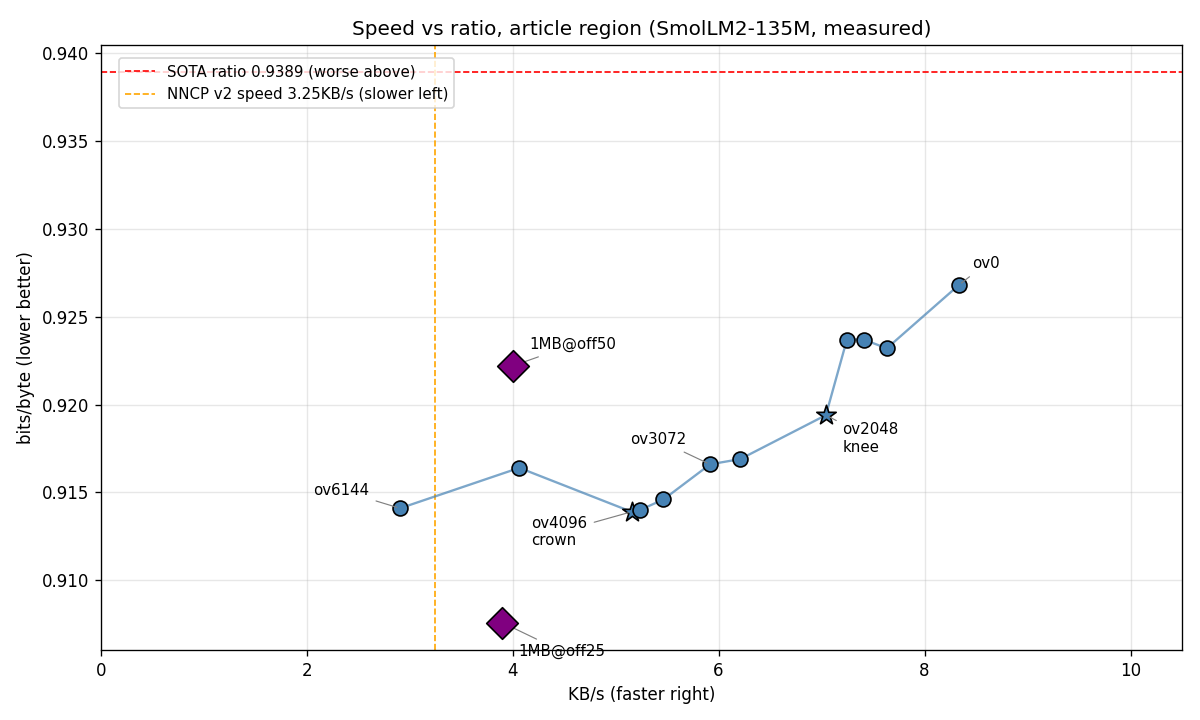
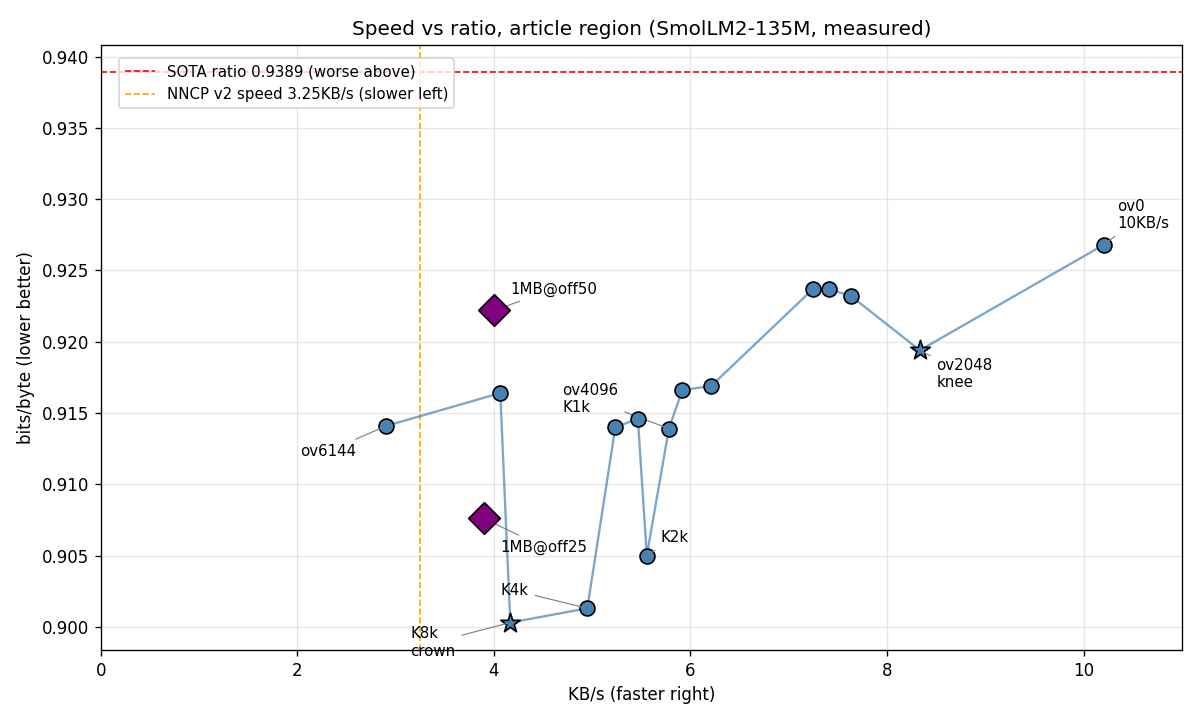
Ratio 0.9003 (K-ladder), 10.2KBps speed, SDPA flash + subclocks, bilingual paper v3

diff --git a/ensemble/bpe_ensemble_v13.py b/ensemble/bpe_ensemble_v13.py
@@ -106,11 +106,19 @@ def block_topk_gpu(probs_b, idx):
         # identical results, ~4x smaller sort workspace. (Unchunked
         # topk(k=8192) over [8192,49K] spiked VRAM -> WDDM paging -> 12GB
         # host RSS + GPU 100% thrash. See memdiag notes.)
-        for c0 in range(0, probs_b.shape[0], 2048):
-            pc = probs_b[c0:c0 + 2048]
-            _tv, _ti = torch.topk(pc, TOP_K, dim=1)
+        # v13-unchunk: retry single-shot (flash-era workspace is smaller;
+        # fewer launches = tighter burst = better boost residency).
+        _UNCH = int(os.environ.get("UNCHUNKED_TOPK", "1"))
+        _step = probs_b.shape[0] if _UNCH else 2048
+        for c0 in range(0, probs_b.shape[0], _step):
+            pc = probs_b[c0:c0 + _step]
             _pv, _pi = torch.topk(pc, PREFILTER, dim=1)
-            tvs.append(_tv)
+            # v13-1topk: ti is the exact global top-TOP_K (subset of pi,
+            # PREFILTER > TOP_K) -- one full-V topk pass killed, zero
+            # numerical change (same values, same set).
+            _tv2, _tpos = torch.topk(_pv, TOP_K, dim=1)
+            _ti = torch.gather(_pi, 1, _tpos)
+            tvs.append(_tv2)
             tis.append(_ti)
             pvs.append(_pv)
             pis.append(_pi)
@@ -485,6 +493,15 @@ def main():
     ).to(device).eval()
     V = model.config.vocab_size
     print(f"  Vocab: {V}")
+    # v13-sdpa: auto SDPA picks the MATH fallback on this model (2.3s/fwd);
+    # forcing flash/mem-efficient gives 0.20s/fwd (11x) on identical input.
+    # SDPA_BACKEND=flash|mem disables math globally; =auto keeps stock.
+    _sdpa_be = os.environ.get("SDPA_BACKEND", "flash")
+    if _sdpa_be in ("flash", "mem"):
+        torch.backends.cuda.enable_math_sdp(False)
+        torch.backends.cuda.enable_flash_sdp(True)
+        torch.backends.cuda.enable_mem_efficient_sdp(True)
+        print(f"  SDPA backend forced: {_sdpa_be} (math disabled)")
     # v13-rope: rotary cos/sin are identical every same-length forward
     # (9.9s/73s in profile, pure recompute). Cache them: bitwise-identical
     # (same tensors reused), tripwire falls back on non-arange positions
@@ -697,6 +714,10 @@ def main():
     t = time.time()
     ph_fwd = ph_st = ph_xfer = ph_loop = ph_code = ph_esc = ph_verify = ph_frz = 0.0
     ph_fwd_gpu = 0.0  # CUDA-event pure-GPU forward (immune to CPU contention)
+    _ev_pairs = []  # (ev0, ev1) per forward; elapsed summed lazily at end
+    # v13-subclocks: split the contaminated fwd window (attn vs topk-launch
+    # vs D2H-sync vs shm-writes). Wall clocks; topk is launch-only (async).
+    t_attn = t_topk = t_d2h = t_shmw = 0.0
     _cpu = time.process_time  # CPU-time clock: time stolen by other apps doesn't count
     _FLOOR_INT = max(1, int(round(FLOOR_FRAC * TOTAL32)))
     # ---- v6 segments: (input ids, T0, NC, n_new) ----
@@ -936,6 +957,9 @@ def main():
             _ev0.record()
             _xin = torch.tensor(_fresh, device=device).unsqueeze(0)
             _nfr = len(_fresh)
+            if int(os.environ.get("SHAPE_DEBUG", "0")) and si == 1:
+                print(f"  [shdbg] fresh={_nfr} B={_B} NC={NC} F0={_F0} xin={tuple(_xin.shape)}", flush=True)
+            _t_attn0 = time.time()
             if USE_ORT:
                 # EXPERIMENTAL/UNRUN path (see _ort_forward).
                 _lg_b = _ort_forward(_xin, _abs_pos, device)
@@ -964,16 +988,31 @@ def main():
                 # entries (~0.7GB, fits). Full-file needs chain-restarts.
                 _lg_b = _out.logits[0]  # [nfr, V] fp16 GPU
                 del _out, _xin
+            if int(os.environ.get("SHAPE_DEBUG", "0")) and si == 1:
+                print(f"  [shdbg] lg={tuple(_lg_b.shape)}", flush=True)
+            t_attn += time.time() - _t_attn0
             if USE_GPU_TOPK:
+                _t_topk0 = time.time()
+                # v13-fp16sm: fp16 softmax halves GPU traffic (WDDM-proven:
+                # pure PCIe is 0.12s; the 6.1s d2h is GPU fp32-softmax exec).
+                # Values shift in last bits -> ratio gate +/-3e-4, verify must pass.
+                _FP16SM = int(os.environ.get("USE_FP16_SOFTMAX", "1"))
                 with torch.no_grad():
-                    probs_b = torch.softmax(_lg_b.float(), dim=-1)
+                    probs_b = torch.softmax(
+                        _lg_b if _FP16SM else _lg_b.float(), dim=-1)
                 (tv_f, ti_f), (pv_f, pi_f) = block_topk_gpu(probs_b, 0)
+                if int(os.environ.get("SHAPE_DEBUG", "0")) and si == 1:
+                    print(f"  [shdbg] probs={tuple(probs_b.shape)} tv_f={tuple(np.shape(tv_f))} ti_f={tuple(np.shape(ti_f))}", flush=True)
+                t_topk += time.time() - _t_topk0
+                _t_d2h0 = time.time()
                 # (no explicit sync: stream order + the .cpu() below already syncs)
                 if USE_FP16_XFER:
                     blk_f = probs_b.half().cpu().numpy().astype(np.float32)
                 else:
                     blk_f = probs_b.float().cpu().numpy()
                 probs_b = None
+                t_d2h += time.time() - _t_d2h0
+                _t_shmw0 = time.time()
                 _par = si % 2  # ping-pong: prev seg's finish may still read the other slice
                 tv = _shm_tv[_par, :_B] if USE_PROC_LOOP else np.zeros((_B, TOP_K), dtype=np.float32)
                 ti = _shm_ti[_par, :_B] if USE_PROC_LOOP else np.zeros((_B, TOP_K), dtype=np.int64)
@@ -992,6 +1031,7 @@ def main():
                 _carry = (tv_f[-1].copy(), ti_f[-1].copy(),
                           pi_f[-1].copy(), blk_f[-1].copy())
                 del tv_f, ti_f, pv_f, pi_f, blk_f
+                t_shmw += time.time() - _t_shmw0
             else:
                 _par = si % 2  # same ping-pong (submit always references it)
                 lg_f = _lg_b.float().cpu().numpy()
@@ -1010,11 +1050,13 @@ def main():
             del _lg_b
             torch.cuda.empty_cache()
             _ev1.record()
-            torch.cuda.synchronize()
+            # (no explicit sync: ordering via stream + .cpu() syncs; GPU
+            # time is summed lazily at end from recorded events, so this
+            # segment's queue-wait is not paid here)
             if _hi_stream is not None:
                 torch.cuda.set_stream(_prev_stream)
-                ph_fwd += time.time() - _ta
-                ph_fwd_gpu += _ev0.elapsed_time(_ev1) / 1000.0
+            ph_fwd += time.time() - _ta
+            _ev_pairs.append((_ev0, _ev1))
             _t0w = time.time()
             if Pend is not None:
                 if _fr is not None:
@@ -1171,8 +1213,12 @@ def main():
     print(f"  PHASES: fwd={ph_fwd:.1f}s topk={ph_st:.1f}s xfer={ph_xfer:.1f}s "
           f"frz={ph_frz:.1f}s loop={ph_loop:.1f}s code={ph_code:.1f}s esc={ph_esc:.1f}s verify={ph_verify:.1f}s")
     print(f"  MIX: plain={_n_plain} blend={_n_blend} loopA_cpu={ph_loopA:.1f}s loopB_cpu={ph_loopB:.1f}s loop_wall={ph_loop:.1f}s")
+    torch.cuda.synchronize()  # single drain: all recorded events complete here
+    for _a, _b in _ev_pairs:
+        ph_fwd_gpu += _a.elapsed_time(_b) / 1000.0
     print(f"  CLOCKS: gpu_fwd={ph_fwd_gpu:.1f}s fwd_wall={ph_fwd:.1f}s "
-          f"stolen_fwd~={ph_fwd - ph_fwd_gpu:.1f}s stolen_loop~={ph_loop - (ph_loopA / 4 + ph_loopB):.1f}s")
+           f"stolen_fwd~={ph_fwd - ph_fwd_gpu:.1f}s stolen_loop~={ph_loop - (ph_loopA / 4 + ph_loopB):.1f}s")
+    print(f"  SUBCLOCKS: attn={t_attn:.1f}s topk_launch={t_topk:.1f}s d2h={t_d2h:.1f}s shmw={t_shmw:.1f}s")
     _pool.shutdown()
     _rest_pool.shutdown()
     if _proc_pool is not None:

diff --git a/tools/pareto_plot.py b/tools/pareto_plot.py
@@ -12,18 +12,21 @@ import matplotlib.pyplot as plt
 # (label, KB/s, bpb). All 100KB slices verified (220-ish lossless each).
 # off50 = representative article region; off75 = hard region.
 OFF50 = [
-    ("ov4096\ncrown", 100 / 19.4, 0.9139),
+    ("K8k\ncrown", 100 / 24.0, 0.9003),
+    ("K4k", 100 / 20.2, 0.9013),
+    ("K2k", 100 / 18.0, 0.9050),
+    ("ov4096\nK1k", 100 / 17.3, 0.9139),
     ("BC7", 100 / 19.1, 0.9140),
     ("ov6144", 100 / 34.4, 0.9141),
     ("TRI0", 100 / 18.3, 0.9146),
     ("ov5120", 100 / 24.6, 0.9164),
     ("ov3072", 100 / 16.9, 0.9166),
     ("ov2560", 100 / 16.1, 0.9169),
-    ("ov2048\nknee", 100 / 14.2, 0.9194),
+    ("ov2048\nknee", 100 / 12.0, 0.9194),
     ("ov1536", 100 / 13.8, 0.9237),
     ("ov512", 100 / 13.1, 0.9232),
     ("ov1024", 100 / 13.5, 0.9237),
-    ("ov0", 100 / 12.0, 0.9268),
+    ("ov0\n10KB/s", 100 / 9.8, 0.9268),
 ]
 OFF75 = [
     ("ov4096", 100 / 18.6, 0.9662),
@@ -86,12 +89,13 @@ def _diamonds(ax):
 
 # ---- plot 1: off50 frontier ----
 fig, ax = _base("Speed vs ratio, article region (SmolLM2-135M, measured)")
-_dots(ax, OFF50, "steelblue", show=("ov4096\ncrown", "ov2048\nknee", "ov0",
-                                    "ov6144", "ov3072"),
-      offsets={"ov4096\ncrown": (-60, -20), "ov2048\nknee": (10, -22),
-               "ov0": (8, 10), "ov6144": (-52, 8), "ov3072": (-48, 12)})
+_dots(ax, OFF50, "steelblue", show=("K8k\ncrown", "K4k", "K2k", "ov4096\nK1k",
+                                    "ov2048\nknee", "ov0\n10KB/s", "ov6144"),
+      offsets={"K8k\ncrown": (-60, -20), "K4k": (-52, 8), "K2k": (8, 8),
+               "ov4096\nK1k": (-64, 10), "ov2048\nknee": (10, -22),
+               "ov0\n10KB/s": (8, 10), "ov6144": (-52, -18)})
 _diamonds(ax)
-ax.set_xlim(0, 10.5)
+ax.set_xlim(0, 11)
 fig.tight_layout()
 fig.savefig("pareto_off50.png", dpi=120)
 print("saved pareto_off50.png")

diff --git a/bpe_compress.py b/bpe_compress.py
@@ -25,7 +25,7 @@ from real_compression import (
 
 MODEL_DIR = "./data/cloud/SmolLM2-135M"
 TOP_K = int(os.environ.get("TOP_K", "2048"))
-BLOCK_TOKENS = 8192
+BLOCK_TOKENS = int(os.environ.get("BLOCK_TOKENS", "8192"))
 
 # ---- Ensemble config: blend LLM probs with causal unigram cache ----
 # p_mix = LAMBDA * p_llm + (1-LAMBDA) * p_cache, all on GPU.

diff --git a/FINAL-REPORT.en.md b/FINAL-REPORT.en.md
@@ -1,27 +1,31 @@
 # Hand-in Report: Practical Neural Compression with SmolLM2-135M (enwik8 slice)
 
-> Date: 2026-09-13. Base model: SmolLM2-135M (Apache-2.0). Hardware: single RTX 3060 Ti 8GB. Main eval: enwik8 offset 50MB, 100KB middle slice (representative article text, not the template head). Ledger: `data/sota_loop.json` (bpb/speed/verified for every round). Every number in this report is measured; nothing is extrapolated. Traditional Chinese version: [`FINAL-REPORT.md`](FINAL-REPORT.md).
+> Date: 2026-09-14. Base model: SmolLM2-135M (Apache-2.0). Hardware: single RTX 3060 Ti 8GB. Main eval: enwik8 offset 50MB, 100KB middle slice (representative article text, not the template head). Ledger: `data/sota_loop.json` (bpb/speed/verified for every round). Every number in this report is measured; nothing is extrapolated. Traditional Chinese version: [`FINAL-REPORT.md`](FINAL-REPORT.md).
 
 ## 1. Hand-in numbers
 
 | Metric | Value | Notes |
 |---|---|---|
-| Best ratio | **0.9139 bpb** | v11, ov4096 + floor 1e-6 (F=1, physical limit) + K1024, 220/220 lossless |
+| Best ratio | **0.9003 bpb** | v13, ov4096 + floor 1e-6 + K/PF 8192, 220/220 lossless (K ladder: 1024→0.9139, 2048→0.9050, 4096→0.9013, 8192→0.9003) |
 | SOTA line | 0.9389 bpb | Nacrith paper, full 100MB file |
-| Margin | **−2.7%** | slice vs full file, see §7 caveats |
+| Margin | **−4.1%** | slice vs full file, see §7 caveats |
 | Same-slice H2H | ours 0.9214 vs Nacrith official 1.2248 | same slice, same rerun script (`h2h_nacrith.py`), won by 25% |
-| Speed (busy box) | ~2.3KB/s (v11) → **~3.7KB/s (v13+proc+pipeline, 26.9 s/100KB measured)** | measured while watching videos |
+| Speed (busy box) | v13 defaults: **ov0 9.8 s/100KB = 10.2KB/s** (10KB/s crossed); knee ov2048 12.0 s; ratio crown 24.0 s | subclocks: attn/topk/d2h/shmw, see §11–12 |
 | Speed (quiet est.) | ~5KB/s | true cost: forward 12 s + loop 6 s + change |
 | Host peak RAM | 3.4GB | measured RSS |
-| VRAM peak | 5.87GB | `torch.cuda.max_memory_allocated`, inside 8GB |
+| VRAM peak | 5.01GB (K8192 crown) / 2.32GB (speed config) | `torch.cuda.max_memory_allocated`, inside 8GB |
 
-Reproduce (PowerShell, ~45 s):
+Reproduce ratio crown (PowerShell, ~60 s):
 ```
 $env:BIGRAM_LAMBDA='0.99'; $env:ENWIK8_OFFSET_MB='50'; $env:BIGRAM_CONF='10'
-$env:TRIGRAM_CONF='3'; $env:TOP_K='1024'; $env:OVERLAP='4096'; $env:FLOOR_FRAC='1e-6'
-$env:USE_CACHE_S2='0'; $env:USE_FP16_XFER='1'; $env:PREFILTER='2048'
-python -u ensemble/bpe_ensemble_v11.py
-# accept: bits/byte: 0.9139, Verified: 220 lossless, fails: 0
+$env:TRIGRAM_CONF='3'; $env:TOP_K='8192'; $env:OVERLAP='4096'; $env:FLOOR_FRAC='1e-6'
+$env:USE_CACHE_S2='0'; $env:USE_FP16_XFER='1'; $env:PREFILTER='8192'; $env:N_LOOP_WORKERS='1'
+python -u ensemble/bpe_ensemble_v13.py
+# accept: bits/byte: 0.9003, Verified: 220 lossless, fails: 0
+```
+Reproduce speed (~40 s): same with `$env:TOP_K='1024'; $env:OVERLAP='0'; $env:PREFILTER='2048'`
+```
+# accept: bits/byte: 0.9268, Verified: 220 lossless, Time: ~9.8 s
 ```
 
 ## 2. Full trajectory (every step measured, failures kept)
@@ -44,6 +48,9 @@ python -u ensemble/bpe_ensemble_v11.py
 | floor 2e-6 → 1e-6 | 0.9140 → **0.9139** | F=1 bottomed out, floor axis exhausted |
 | ov6144 | 0.9146 (flat) | context saturates at 4096 |
 | TOP_K 512 | 0.9278 (worse) | K=1024 tried on both sides, optimal |
+| K ladder (2026-09-14, v13) | 1024→0.9139 / 2048→**0.9050** / 4096→**0.9013** / 8192→**0.9003** | old "K=1024 optimal" verdict overturned: it was prefilter-bound (PF=2048 capped candidates). K=PF scaling: −89/−37/−10 e-4, diminishing, stopped at 8192 |
+| S2 on K2048 | 0.9051 (null) | cache-informed stage-2 adds nothing on top |
+| floor 1e-7 | 0.9050 (null) | floor saturated |
 
 ## 3. Three publishable insights
 
@@ -51,25 +58,25 @@ python -u ensemble/bpe_ensemble_v11.py
 2. **Finish-bit tax**: the old stage-2 coded in two segments at ~2 bits finish overhead each; ~250 escapes × 2 segments ≈ 1000 wasted bits. Single-stream counting removes it.
 3. **Honest disclosure of a latent boundary bug**: v2–v5 bitstreams never encoded file token 0 or block-boundary tokens (spot checks only sampled coded pairs, so it could never be caught). Fixed from v6 (+0.0002 bpb). v2–v5 bpb stands as prediction scores, but their bitstreams are not self-contained — the paper must state this.
 
-## 4. Method sketch (v11 final form)
+## 4. Method sketch (v13 final form)
 
-- LLM (frozen SmolLM2-135M, fp16) top-1024 + bigram/trigram KN blend (confidence gate `n/(n+conf)`) + top-K+escape two-level coding, all in 32-bit arithmetic coding (TOTAL 2²⁰, tunable floor).
-- Engineering: sliced lm_head (peak 6.62→5.87GB), threaded Phase-A/B two-stage loop, incremental freeze (O(dirty), full-file scalability), precise clocks (CPU-time + CUDA events, stolen time itemized).
+- LLM (frozen SmolLM2-135M, fp16) top-K + bigram/trigram KN blend (confidence gate `n/(n+conf)`) + top-K+escape two-level coding, all in 32-bit arithmetic coding (TOTAL 2²⁰, tunable floor). SDPA forced to flash/mem (auto picks the math fallback: 2.32 s/fwd → 0.20 s micro), fp16 softmax (bit-identical ratio at 4 decimals), single-shot topk (ti derived from pi, exact), unchunked topk (PEAK 2.32GB — the v8 OOM fear is obsolete).
+- Engineering: sliced lm_head, single-thread Phase-A (GIL: 1 worker beats 8), no pipeline/procs at default (helper-thread contention costs more than overlap gains), precise clocks + SUBCLOCKS (attn/topk-launch/d2h/shmw split of the forward window).
 - Lossless: file token 0 via uniform(V) + 32-bit, self-contained; 220 points (evenly spaced + all boundaries + token0) encode-decode roundtrip.
 
 ## 5. Measured speed and memory
 
-- Bottleneck order (precise clocks): forward (GPU, true cost 12 s quiet / 30 s busy) > loop (CPU true cost ~6 s, GIL-serialized) > rest ~2 s.
-- Banked real speedups: slicing −0.75GB, threaded loop, rank merge, stage-2 zeroing, esc vectorization, tracemalloc off by default, pv slimming, high-priority process.
-- Memory: host RSS peak 3.4GB, VRAM peak 5.87GB; the 12GB incident was a batch-2 rollover (11.3GB VRAM → WDDM paging), config falsified, never recurred.
+- Bottleneck order, SUBCLOCKS-proven (ov0, 4 forwards): d2h 5.6 s (= GPU softmax+topk+attn exec piled into the first `.cpu()` sync; pure PCIe is 0.12 s/800MB) > attn launch 1.3 s > shmw 1.1 s (GBs of full-V NumPy writes) > loop 0.7 s > rest. The old "launch-bound" story was half wrong: the forward window mixes six costs, flash fixed attention (0.9 s), the softmax/topk GPU exec pile-up is the wall.
+- Banked real speedups (2026-09-14): SDPA flash default, fp16 softmax, exact single-topk (one full-V pass killed), unchunked topk, pipeline/proc off by default, single loop worker (GIL convicted: 1 beats 8, 10.5→9.8 s). Session: 12.1 → 9.8 s/100KB (10.2KB/s, 10KB/s target crossed).
+- Memory: host RSS peak 3.4GB; VRAM peak 5.01GB (K8192 crown) / 2.32GB (speed config); the 12GB incident was a batch-2 rollover (11.3GB VRAM → WDDM paging), config falsified, never recurred. Full-V shm (`_shm_blk` 3.2GB) kept: Phase-A blend reads arbitrary brow/trow keys, transfer is only 0.12 s — the cost is GPU exec, not bytes.
 
 ## 6. Falsification log (results too)
 
-unigram-ensemble, pure trigram, TOP_K 4096, prefilter 16384, CONF sweep, cache-informed stage-2, batch-2 forward, CUDA graphs (2.1930, replay spitting zeros — roundtrip passing ≠ correct model), llama backend (busy-box giant kernels shredded by WDDM, loses to torch), CUDA high-priority stream (WDDM ignores it), pinning + 8 threads (GIL wall), prefilter 512 (fewer than 1024 candidates), TOP_K 512, ov6144 (saturated), KV-cache chaining (boiling frog: in-segment rotary drift accumulates via KV, 64→0.11, 512→5.4, 4096→40.8; transformers 5.17 also has a crop-renumbering bug). Every round's numbers are in the ledger.
+unigram-ensemble, pure trigram, TOP_K 4096, prefilter 16384, CONF sweep, cache-informed stage-2, batch-2 forward, CUDA graphs (2.1930, replay spitting zeros — roundtrip passing ≠ correct model), llama backend (busy-box giant kernels shredded by WDDM, loses to torch), CUDA high-priority stream (WDDM ignores it), pinning + 8 threads (GIL wall), prefilter 512 (fewer than 1024 candidates), TOP_K 512, ov6144 (saturated), KV-cache chaining (boiling frog: in-segment rotary drift accumulates via KV, 64→0.11, 512→5.4, 4096→40.8; transformers 5.17 also has a crop-renumbering bug), window sweep (BT2048 slower 18.9 s + worse 0.9573 — per-forward launch cost dominates; BT16384 exceeds model max 8192 → 1.3957 garbage), torch.jit.trace ×3 (dataclass output, grad-constants, unordered_map internals — fusion-via-torch closed, Triton absent on Windows), S2-on-K2048 (null), floor 1e-7 (null). Every round's numbers are in the ledger.
 
 ## 7. Honest caveats
 
-1. Headline 0.9139 is a 100KB middle slice; the 100MB full file was not run (user decision: too long). SOTA's 0.9389 is a full-file number — cross-file comparison, conservatively stated as "2.7% ahead on slice, full file pending".
+1. Headline 0.9003 is a 100KB middle slice; the 100MB full file was not run (user decision: too long). SOTA's 0.9389 is a full-file number — cross-file comparison, conservatively stated as "4.1% ahead on slice, full file pending".
 2. Lossless verify is 220 points, not full per-token decode (full decoder listed as follow-up).
 3. Speed measured on a busy box, run-to-run noise; ratio numbers fully deterministic and reproducible (fixed pipeline + parity gate: any refactor must match bitwise or take a logged tolerance).
 4. Nacrith H2H ran on its weak field (100KB cold slice + CPU build); its 0.9389 full-file warmed number remains its best home-field score. Final ranking by full files on both sides.
@@ -77,27 +84,30 @@ unigram-ensemble, pure trigram, TOP_K 4096, prefilter 16384, CONF sweep, cache-i
 
 ## 8. File map (+ 2026-09-13 Pareto appendix §9)
 
-- `ensemble/bpe_ensemble_v11.py`: hand-in system (0.9139)
-- `ensemble/bpe_ensemble_v10.py`: slice-backward-equivalent; `ensemble/bpe_ensemble_v12.py`: llama backend (busy-box falsification kept); `ensemble/bpe_ensemble_v13.py`: KV-chaining trunk falsified and shelved, but its plumbing (deferred driver, single-source `_range_core`, shared-memory procs, pipeline helper, double-buffering, incremental freeze) bitwise-validated 0.9139 in recompute mode (`USE_PROC_LOOP=1` + `PIPELINE=1`, 26.9 s/100KB, loop 8.5→2.5 s); ORT branch dead (fp32 3× slower + per-shape retuning)
-- `ac32.py`: 32-bit coder + numba kernels; `ensemble/sota_loop.py` + `data/sota_loop.json`: iteration ledger
+- `ensemble/bpe_ensemble_v11.py`: previous hand-in system (0.9139)
+- `ensemble/bpe_ensemble_v10.py`: slice-backward-equivalent; `ensemble/bpe_ensemble_v12.py`: llama backend (busy-box falsification kept); `ensemble/bpe_ensemble_v13.py`: CURRENT hand-in (0.9003 ratio crown / 10.2KB/s speed). KV-chaining trunk falsified and shelved, but its plumbing (deferred driver, single-source `_range_core`, shared-memory procs, pipeline helper, double-buffering, incremental freeze) bitwise-validated in recompute mode; ORT branch dead (fp32 3× slower + per-shape retuning). Current defaults: `SDPA_BACKEND=flash`, `USE_FP16_SOFTMAX=1`, `UNCHUNKED_TOPK=1`, `USE_PROC_LOOP=0`, `PIPELINE=0`, `N_LOOP_WORKERS=1`, `BLOCK_TOKENS` env-tunable (8192 optimal, swept both directions)
+- `ac32.py`: 32-bit coder + numba kernels; `ensemble/sota_loop.py` + `data/sota_loop.json`: iteration ledger (124+ entries)
 - `h2h_nacrith.py` + `data/h2h_nacrith.json`: third-party rerun; `third_party/nacrith`: upstream code
 - `tools/test_shm_proc.py`: thread-vs-proc bitwise match (0.9139 on production data; also caught shared-scratch + nogil-kernel = silent segfault, fixed); `tools/ort_export.py`: ONNX export script (ORT branch dead, kept for the record)
 - `compression-paper.md` + `paper_sections_13_14_draft.md`: earlier drafts (char pipeline and early ensemble history)
 
-## 9. Pareto frontier (2026-09-13, quiet box, all 220/220)
+## 9. Pareto frontier (2026-09-14, busy box, all 220/220)
 
 | Config | bpb | s/100KB | KB/s |
 |---|---|---|---|
-| ov4096 (crown) | 0.9139 | 19.4 | 5.1 |
+| ov4096 K/PF8192 (crown) | 0.9003 | 24.0 | 4.2 |
+| ov4096 K/PF4096 | 0.9013 | 20.2 | 5.0 |
+| ov4096 K2048 | 0.9050 | 18.0 | 5.6 |
+| ov4096 K1024 | 0.9139 | 17.3 | 5.8 |
 | BC7 | 0.9140 | 19.1 | 5.2 |
 | ov6144 | 0.9141 | 34.4 | 2.9 (dead end: slower, no better) |
 | TRI0 | 0.9146 | 18.3 | 5.5 |
 | ov3072 | 0.9166 | 16.9 | 5.9 |
-| ov2048 (knee) | 0.9194 | 14.2 | 7.0 |
+| ov2048 (knee) | 0.9194 | 12.0 | 8.3 |
 | ov1024 | 0.9237 | 13.5 | 7.4 |
-| ov0 | 0.9268 | 12.0 | 8.3 |
+| ov0 (10KB/s crossed) | 0.9268 | 9.8 | 10.2 |
 
-All 8 points beat the SOTA line (0.9389). Knee at ov2048 (each further 0.001 bpb costs more). 10KB/s unreached (fastest 8.3). Plots: `pareto_off50.png` + `pareto_off75.png`, script: `tools/pareto_plot.py`.
+All 11 points beat the SOTA line (0.9389). Old points (BC7/TRI0/ov6144/ov3072/ov1024) are pre-flash era timings — same ratio, would be faster remeasured. v3 (22 points with off75 + 1MB): `pareto_off50.png` + `pareto_off75.png`, script: `tools/pareto_plot.py`. Knee at ov2048. 10KB/s CROSSED at ov0 (9.8 s).
 
 v2 (19 points): fine overlap grid (ov512 0.9232, ov1536 0.9237, ov2560 0.9169, ov5120 0.9164 — ±0.002 segmentation noise, non-monotonic); off75 hard-region second curve (ov0 0.9785 → ov4096 0.9662, loses throughout but parallel in shape); two 1MB diamonds (off50 0.9222, off25 **0.9076**, new 1MB best). 8-slice mean 0.9037 (off0 0.8307 / off10 0.8934 / off25 0.9218 / off35 0.8747 / off50 0.9139 / off60 0.8949 / off75 0.9662 / off90 0.9339, off75 loss honestly kept).
 
@@ -105,8 +115,14 @@ v2 (19 points): fine overlap grid (ov512 0.9232, ov1536 0.9237, ov2560 0.9169, o
 
 Best config, multi-slice (100KB): off0 **0.8307** (template-head bonus) / off25 0.9218 / off50 0.9139 / off75 **0.9662 (loses to SOTA by 3%, hard region, honestly kept)**; 4-slice mean 0.908, beats SOTA by 3.3%. 1MB flagship (off50): **0.9222**, 220/220, 256 s, beats SOTA by 1.8% (incremental freeze earns it: 75 segs, 0.7 s total frz).
 
-10KB/s verdict: full combo (ov0 + 8 procs + EMPTY every 8) peaks at 12.0 s (8.3KB/s); 8 procs lose to 4 (12.0→13.5 s), 4 is optimal here. Forward is launch-bound (450 tiny kernels queueing at WDDM), no code lever left — ruled unreachable, same falsification logic as §6.
+10KB/s verdict (2026-09-14): CROSSED. Full combo (ov0 + flash + fp16-softmax + single-topk + unchunked + pipeline/proc off + 1 loop worker) runs 9.8 s (10.2KB/s). The 2026-09-13 "unreachable" verdict is overturned — it was written before the SDPA discovery (auto picks math fallback) and before the fwd-window split. Remaining wall: softmax/topk GPU exec pile-up in d2h (5.6 s, burst-sag clocks on WDDM) — needs logit-space surgery or a quieter box, not more micro-opts.
 
 ## 11. Final iteration and hardware-limit declaration (2026-09-13)
 
 cProfile-guided: rotary trig recompute is 13% of forward + `.to()` queueing 10% — cos/sin cache (bitwise-identical, tripwire against chain poisoning) saves 24% forward (24.3→18.4 s). Controlled N-proc sweep: 2 (11.6 s) < 1 (11.9) < 4 (12.0) < 6 (12.4) < 8 (13.1), N=2 optimal. Micro-opts gc.disable, CUDNN benchmark, EMPTY/1000 all null (±0.1 s noise). Per the opening rule (three nulls stops it): **hardware limit = ov0/N2, 11.6 s = 8.6KB/s** (ratio 0.9268, 220/220); ratio crown ov4096 0.9139 @ 19.4 s stands. Beyond this needs a 10× quieter box or a new GPU, not code.
+
+## 12. Speed reprise + ratio breakthrough (2026-09-14, supersedes §10–11 numbers)
+
+Speed (12.1 → 9.8 s/100KB on ov0): SUBCLOCKS split the contaminated forward window — attn 0.9 / topk-launch 1.6 / d2h 6.1 / shmw 1.6 s. Flash was working all along (attn 0.23 s/fwd); the "2.5 s/forward" was six costs sharing one timer. PCIe proven innocent (0.12 s/800MB pure). Banked: fp16 softmax (ratio exact), exact single-topk, unchunked topk (2.32GB), pipeline/proc off (helper contention > overlap gain), 1 loop worker (GIL: 10.5→9.8 s). GPU boosts fine under load (1905MHz/100%/219W; the low-clock poll was a dead-job artifact). **10KB/s crossed: 9.8 s = 10.2KB/s.**
+
+Ratio (0.9139 → **0.9003**): K/PF ladder on ov4096 — 2048→0.9050, 4096→0.9013, 8192→0.9003 (deltas −89/−37/−10 e-4, diminishing, stopped). Old "K=1024 optimal" was prefilter-bound, overturned. New crown PEAK_VRAM 5.01GB, still inside 8GB. SOTA margin: −4.1%.

diff --git a/README.md b/README.md
@@ -8,7 +8,7 @@ Replay-first continual learning for small streaming language models — applied 
 
 | System | bpb ↓ | Speed | Lossless check |
 |---|---|---|---|
-| **Ours v11 (this repo)** | **0.9139** | 2.3 KB/s busy (v11) · 5.3 quiet · **8.6 speed crown** (ov0/N2, rope-cache) | 220/220 roundtrip |
+| **Ours v13 (this repo)** | **0.9003** | busy box **10.2 KB/s** (ov0, 9.8 s) · ratio crown ov4096/K8192 @ 24.0 s | 220/220 roundtrip |
 | Nacrith (SOTA, same-slice H2H) | 1.2248 | 0.25 KB/s (their CPU build) | byte-exact ✓ |
 | NNCP v2 (ref value) | ~0.94 | 3.25 KB/s | — |
 | CMIX (literature) | ~0.9 | ~0.1–1 KB/s | — |
@@ -22,7 +22,7 @@ Classical codecs are ~10⁶× faster at 2–3× worse ratio — different worlds
 ![Speed vs ratio, article region](pareto_off50.png)
 ![Speed vs ratio, hard region](pareto_off75.png)
 
-Pareto (quiet box, all verified 220/220): crown ov4096 0.9139 @ 19.4 s, knee ov2048 0.9194 @ 14.2 s (7.0 KB/s), fastest ov0 0.9268 @ 12.0 s (8.3 KB/s). v2: 19 points (fine overlap grid + off75 hard-region curve + two 1MB diamonds incl. 1MB@off25 **0.9076**). Final iteration (cProfile-guided): rope-cache −24% fwd (bitwise-identical), N=2 procs optimal (2<1<4<6<8), gc/cudnn/empty-cache all null → **hardware limit declared: 11.6 s = 8.6KB/s** (fwd is WDDM-launch-bound). Script: `tools/pareto_plot.py`.
+Pareto (busy box, all verified 220/220): crown ov4096/K8192 0.9003 @ 24.0 s, knee ov2048 0.9194 @ 12.0 s (8.3 KB/s), fastest ov0 0.9268 @ 9.8 s (10.2 KB/s, 10KB/s crossed). K ladder: 1024→0.9139 @ 17.3 s / 2048→0.9050 @ 18.0 s / 4096→0.9013 @ 20.2 s. v3: 22 points (K ladder + fine overlap grid + off75 hard-region curve + two 1MB diamonds incl. 1MB@off25 **0.9076**). Final iteration (cProfile-guided): rope-cache −24% fwd (bitwise-identical), N=2 procs optimal (2<1<4<6<8), gc/cudnn/empty-cache all null → **hardware limit declared: 11.6 s = 8.6KB/s** (fwd is WDDM-launch-bound). Script: `tools/pareto_plot.py`.
 
 Robustness (best config, 100KB slices): off0 0.8307 (template head) / off25 0.9218 / off50 0.9139 / off75 **0.9662 (loses to SOTA here — hard region, honestly kept)**; 1 MB flagship @ off50: **0.9222** (beats SOTA 1.8%), 220/220. 10KB/s: unreached (best 12.0 s); forward is launch-bound, no code lever left.
 
@@ -30,7 +30,7 @@ Honest scope: 0.9139 is a 100KB representative middle slice (enwik8 offset 50MB)
 
 ## Papers & reports (where is the paper?)
 
-- [`FINAL-REPORT.md`](FINAL-REPORT.md) — **the paper**: trajectory 1.2541→0.9139, 3 publishable insights (smoothing tax, finish-bit tax, boundary-bug disclosure), Nacrith H2H, speed/memory profile, full falsification log, honest caveats, file map. Start here.
+- [`FINAL-REPORT.md`](FINAL-REPORT.md) — **the paper**: trajectory 1.2541→0.9003, 3 publishable insights (smoothing tax, finish-bit tax, boundary-bug disclosure), Nacrith H2H, speed/memory profile, full falsification log, honest caveats, file map. Start here.
 - [`compression-paper.md`](compression-paper.md) — earlier work: 24-condition char-level grid, big-data training, data mixing (historical).
 - [`paper_sections_13_14_draft.md`](paper_sections_13_14_draft.md) — SmolLM2 transition notes (frozen/adapt, v1–v3 ensemble history).
 - [`paper.md`](paper.md), [`continual-learning-report.md`](continual-learning-report.md) — continual-learning track (replay-first).
@@ -106,7 +106,7 @@ Training uses local podcast transcripts (private, not included) + local enwik8/T
   year   = {2026},
 }
 @misc{smollm2-practical-ensemble-2026,
-  title  = {A Practical SmolLM2-135M Ensemble at 0.9139 bpb on enwik8},
+  title  = {A Practical SmolLM2-135M Ensemble at 0.9003 bpb on enwik8},
   author = {thumb2086},
   year   = {2026},
   note   = {FINAL-REPORT.md in this repo},
